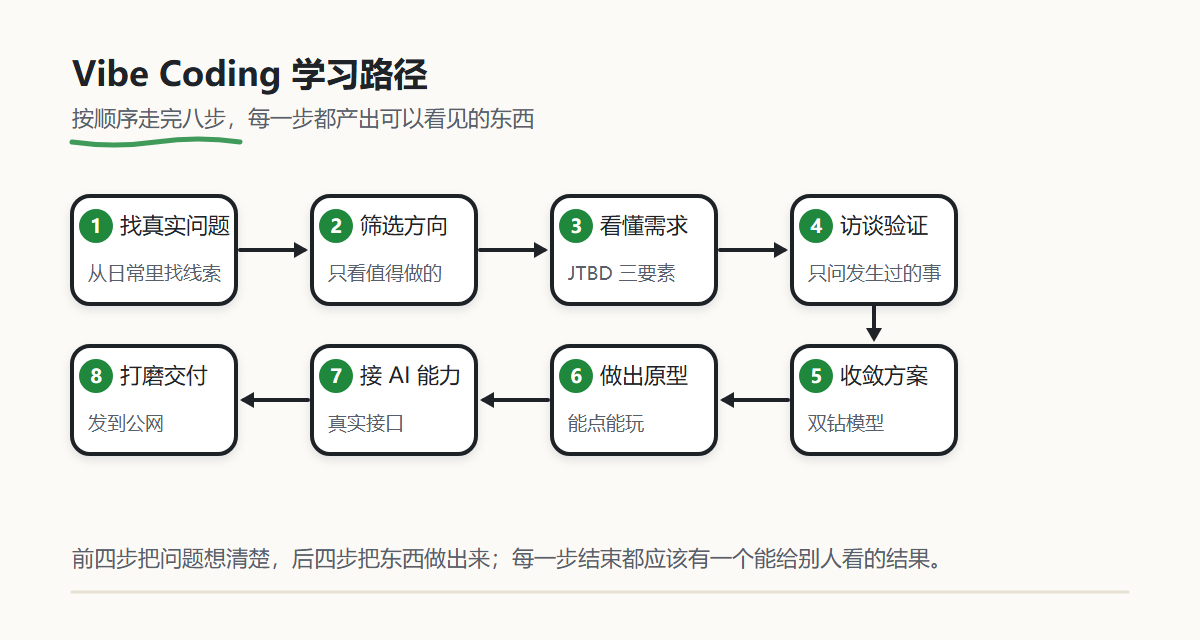
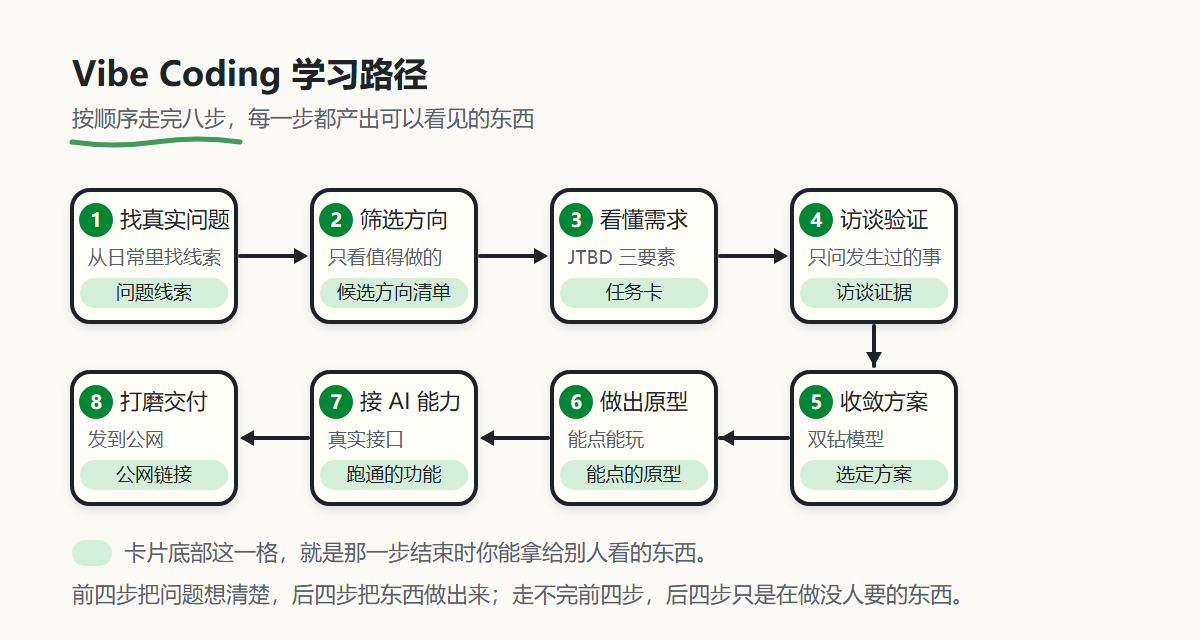
fix(illustrations): give the eight-step path a hook and open the cold-read ledger
The learning-path figure scored 3/5 on readability in a cold read: eight useful
labels but nothing to remember. Each step now carries the artifact it produces,
so the reader sees what they will hold at the end of each stage.

REVIEW.md is the ledger that keeps the five-dimension rubric honest -- every
figure is scored from the rendered still, and anything below 4 becomes a row to
close rather than a vague intention.

Changed region(s): [[0.0308, 0.2812, 0.8017, 0.8125], [0.0617, 0.8438, 0.8017, 0.9688]]

diff --git a/design/system/REVIEW.md b/design/system/REVIEW.md
@@ -1,0 +1,53 @@
+# 冷读评审台账（经典级五维）
+
+> 口径来自 SPEC §9.2：每张图按 **趣味可读 / 生动形象 / 简单易懂 / 过目不忘 / 由浅入深** 打 1–5 分，任一维 <4 即回炉，返工项在此逐条销账。
+> 打分方式：不带写作上下文，只看 `design/handdraw/renders/hd-*.png` 栅格图 + 正文相邻段落，问「这张图替读者省了哪一段重读」。
+> 路径一律用仓库相对路径（`scripts/validate.mjs` 会扫机器绝对路径）。
+
+## 评分维度怎么判（避免自说自话）
+
+| 维度 | 判定动作 |
+| --- | --- |
+| 趣味可读 | 能否指出图里那**一个具体比喻或场景钩子**（小黑板 / 时光机 / 翻译官…） |
+| 生动形象 | 遮住 70% 文字后，图形层是否仍讲得清主干结构 |
+| 简单易懂 | 单图新概念 ≤5；figcaption 一句话说清「省了什么」；无未解释术语 |
+| 过目不忘 | 原文口诀或数字锚是否**画进了图里**而不是只留在正文 |
+| 由浅入深 | 图在该节的位置是否符合认知梯度（先给地图，再给细节） |
+
+---
+
+## 第一批（6 张，上一轮已交付并验收）
+
+| 图 | 点位 | 趣味 | 生动 | 易懂 | 不忘 | 由浅入深 | 结论 |
+| --- | --- | --- | --- | --- | --- | --- | --- |
+| `learn-path` | 如何学习本课程 | 3 | 5 | 5 | 4 | 5 | **回炉项：趣味 3** —— 八步全是有用标签但没有一个钩子。已在本轮重渲复验，构图/文字无越界。返工见下方 R-01 |
+| `funnel` | 筛选值得做的方向 | 4 | 5 | 5 | 4 | 5 | 通过 |
+| `jtbd` | 看懂真实需求 | 4 | 4 | 5 | 4 | 5 | 通过 |
+| `mom-test` | 用访谈验证需求 | 5 | 5 | 5 | 5 | 5 | 通过（左右两列 + 灰叉，遮字也能读懂） |
+| `error-flow` | 常见问题与排错 | 5 | 5 | 5 | 5 | 4 | 通过（「90% 的报错能自己解决」入图） |
+| `deploy` | 把网站发到网上 | 4 | 5 | 5 | 4 | 5 | 通过（回滚回环是记忆点） |
+
+## 第二批（6 张，本轮落地，正文行号见 `design/handdraw/book-illustrations.md`）
+
+| 图 | 点位 | 趣味 | 生动 | 易懂 | 不忘 | 由浅入深 | 结论 |
+| --- | --- | --- | --- | --- | --- | --- | --- |
+| `render-pipeline` | 浏览器渲染管道 | 4 | 5 | 5 | 5 | 5 | **首稿返工后通过**：汇合箭头处「合并」小标签与两个箭头头部重叠（R-02 已修，删标签并重渲，副标题已说明合并） |
+| `cicd` | CI / CD 自动化 | 5 | 5 | 4 | 5 | 5 | 通过。「九步变两步 / 喝茶坐等」是钩子；虚线失败分支落到第 1 步正确。易懂扣到 4：底部两行对照文字偏密，读者可能跳过 |
+| `llm-work` | 大语言模型的工作原理 | 5 | 5 | 5 | 5 | 5 | 通过。「猜下一个词」+ 回环「一 token 一 token 往外吐」把最抽象的一步变成可见动作 |
+| `context-engineering` | 上下文工程 | 5 | 5 | 5 | 5 | 5 | 通过。四层成本数字与正文表格逐条对齐，「小黑板不是图书馆」承担记忆点，RAG 图书馆用虚线容器区分「不进窗口」 |
+| `agent-loop` | AI Agent 与工具调用 | 4 | 4 | 4 | 5 | 5 | **观察项 O-01**：四张卡各带英文术语（Memory / Planning / Tool Calling / Tools），新概念数刚好压在 5 的线上；底部 Guardrails 一行是纯文字堆，图形层没接住 → 生动 4。暂不返工，第三批若重画此节再把 Guardrails 变成护栏图形 |
+| `mcp-a2a` | AI 协议（MCP & A2A） | 4 | 5 | 4 | 5 | 5 | **观察项 O-02**：中心 + 6 张卫星卡，字面数超「≤5 新概念」，但按 MCP / A2A 两组各 3 张读，实际负担等于 2；图例条 + 底部两行说明偏多。保留，第三批做同类协议图时按「两组封顶」执行 |
+
+## 返工与观察台账
+
+| 编号 | 状态 | 内容 |
+| --- | --- | --- |
+| R-01 | **OPEN** | `learn-path` 缺钩子。方案：把「每一步都产出可以看见的东西」画成每步右下角一枚小产出物标记（线索卡 / 漏斗 / 任务卡 / 录音 / 双钻 / 原型框 / 插头 / 链接），而不是只加一句标语。第三批收尾时连同 stack 版一起处理 |
+| R-02 | CLOSED（本轮） | `render-pipeline` 「合并」标签压箭头头部 → 删除该标签并重渲复验 |
+| O-01 | WATCH | `agent-loop` 底部 Guardrails 为纯文字；重画时转为护栏图形 |
+| O-02 | WATCH | 中心标注类图按「分组封顶 2 组、每组 3 卡」执行，避免卫星卡堆到 6 张以上 |
+
+## 本轮流程侧发现（值得固化的坑）
+
+- `render_figures.py` 首版用 `\b(width|height)` 解析 `<svg>` 尺寸，`stroke-width="4"` 里的 `width` 被当成属性，取到 4×88 的窗口，Chrome 出一张 112 字节的空白 PNG 且**退出码为 0**。修法：只在 `<svg …>` 开标签内匹配，并要求属性名前不连字符；脚本再加「PNG < 5000 字节即失败」的硬检查。教训：**栅格化后必须真的看图，不能只看命令成功**。
+- 图与相邻图片的正文间隔要在插入**之后**再量一次：本轮六张插入后最小间隔 4502 字（要求 ≥400–500）。审计脚本要排除 figure 自身块，否则会把 `<figure>` 当成「上一张图」得出 0 间隔的假阳性。
